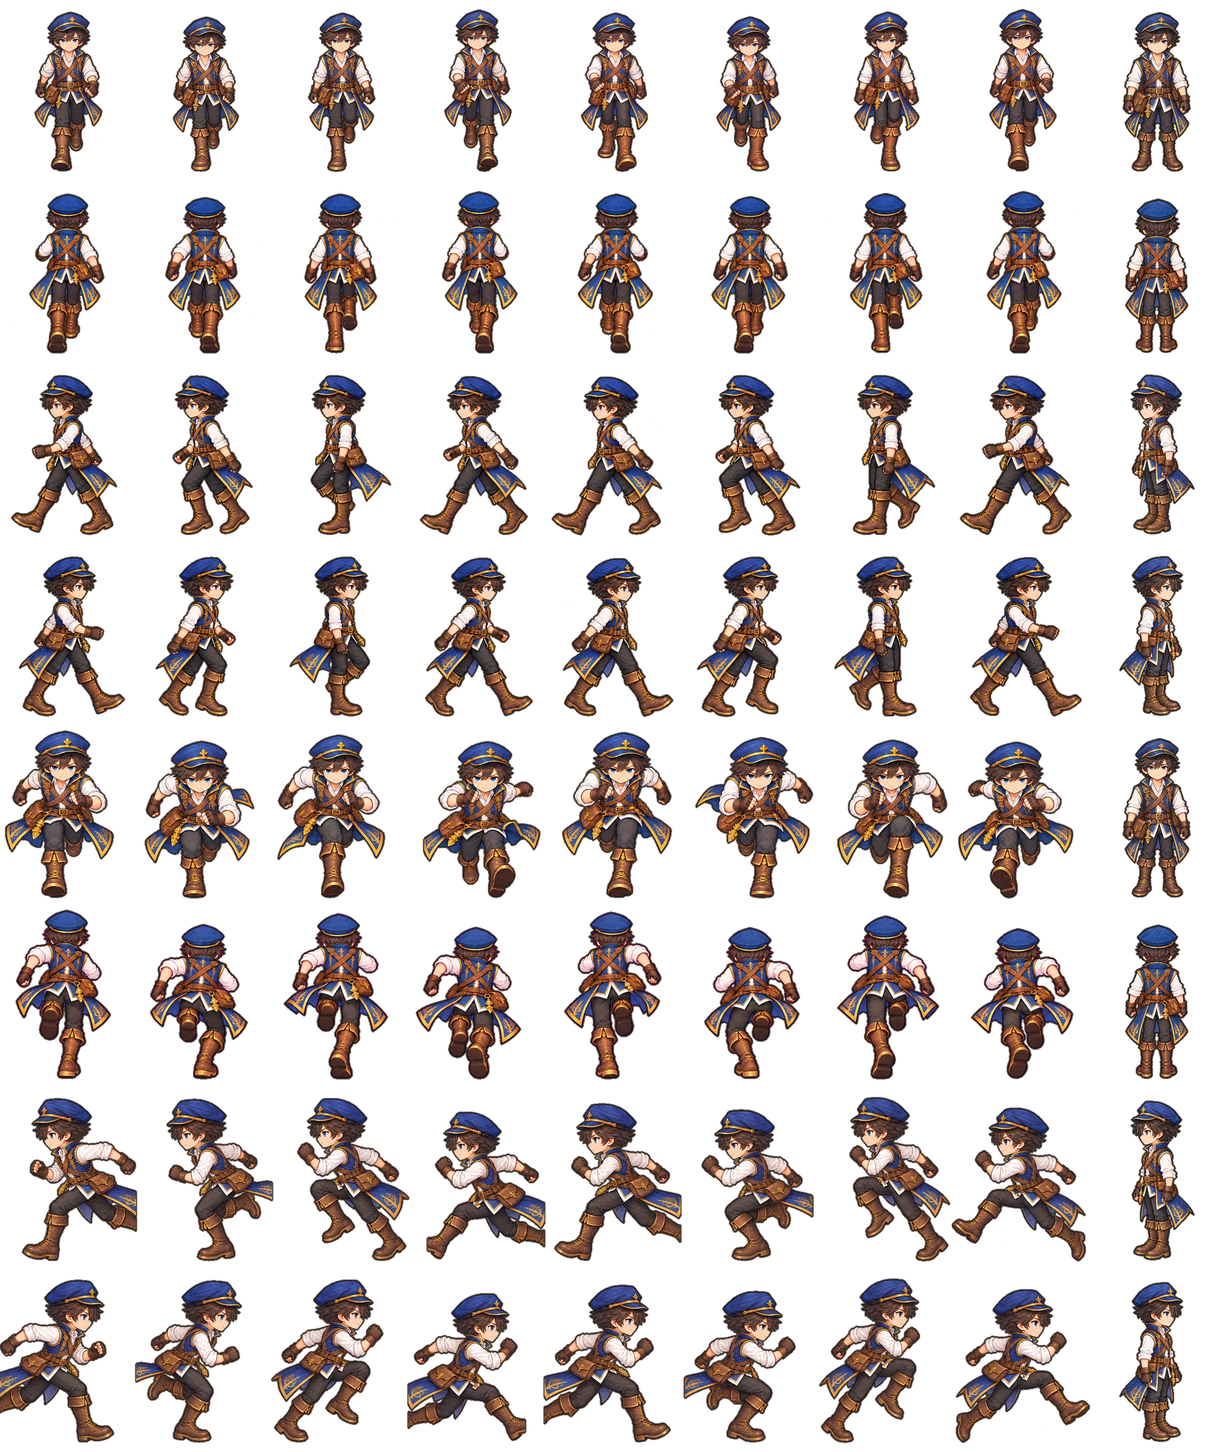
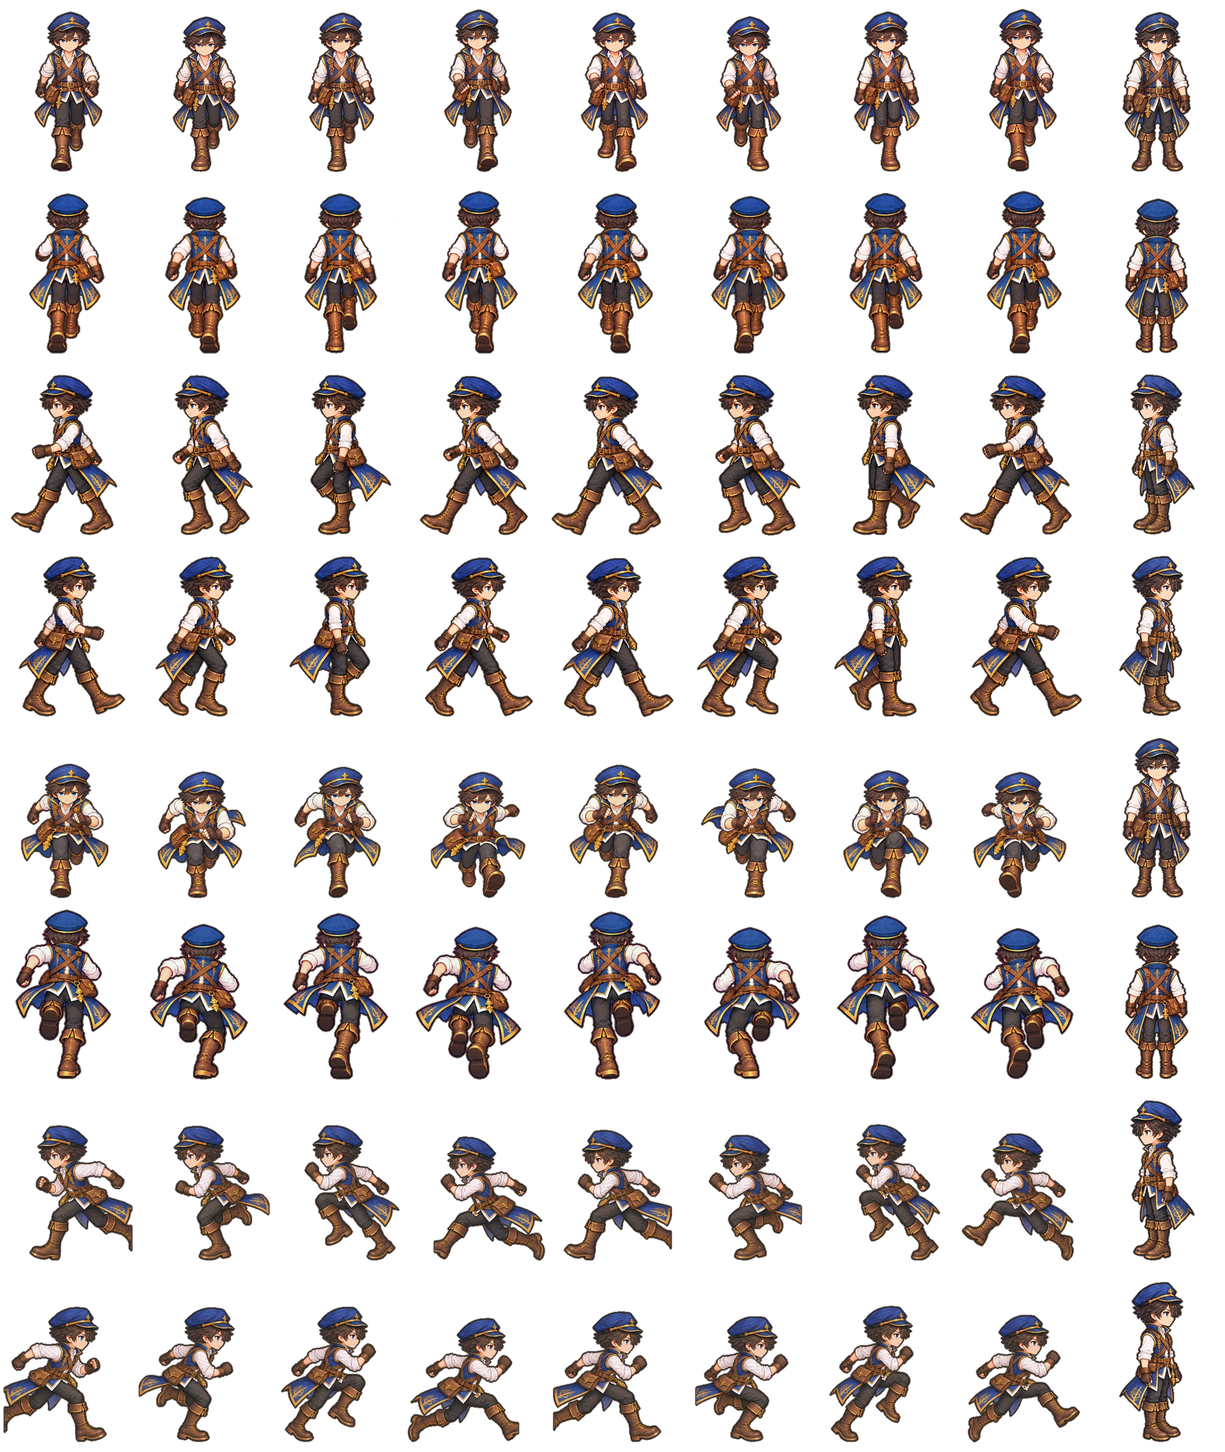
走りのコマの大きさと色味を歩きに合わせる（iPhone 試遊「走りは少し大きくなる・色味が変わる」）
帽子の幅が歩きの「立つ」と同じになるように走りの8コマを縮め（左 0.83・正面 0.80・背中 1.0）、
帽子・肌・ブーツの平均色が歩きと同じになるように色ごとの直線で合わせる（adult_walk_build.py の run8_poses）。

Claude-Session: https://claude.ai/code/session_017pkdgoVCas5KENQnYkuWbn

diff --git a/tools/art/adult_walk_build.py b/tools/art/adult_walk_build.py
@@ -172,10 +172,77 @@ def slot_windows(sheet: Image.Image, cols: int, rows: int) -> list[Image.Image]:
     return wins
 
 
+def cap_width(im: Image.Image) -> int:
+    """帽子（青）の横幅（人物の上から 22% の範囲にある青い画素の左右の端）。前傾しても変わりにくいので、大きさ合わせの目安にする"""
+    arr = np.asarray(im)
+    a = arr[..., 3] > 200
+    ys = np.nonzero(a.any(axis=1))[0]
+    if len(ys) == 0:
+        return 0
+    top, bot = int(ys[0]), int(ys[-1])
+    rgb = arr[..., :3].astype(int)
+    blue = (rgb[..., 2] > 110) & (rgb[..., 0] < 90) & (rgb[..., 1] < 120) & a
+    blue[top + int((bot - top) * 0.22):] = False
+    xs = np.nonzero(blue.any(axis=0))[0]
+    return int(xs[-1] - xs[0] + 1) if len(xs) else 0
+
+
+def region_means(im: Image.Image) -> list[np.ndarray]:
+    """色合わせの目安になる3か所（帽子の青・顔の肌・ブーツの茶）の平均色。無い所は飛ばす"""
+    arr = np.asarray(im)
+    a = arr[..., 3] > 200
+    ys = np.nonzero(a.any(axis=1))[0]
+    top, bot = int(ys[0]), int(ys[-1])
+    h = bot - top
+    rgb = arr[..., :3].astype(int)
+    cap = (rgb[..., 2] > 110) & (rgb[..., 0] < 90) & (rgb[..., 1] < 120) & a
+    cap[top + int(h * 0.22):] = False
+    skin = (rgb[..., 0] > 200) & (rgb[..., 1] > 150) & (rgb[..., 1] < 215) & (rgb[..., 2] > 120) & (rgb[..., 2] < 195) & a
+    skin[top + int(h * 0.45):] = False
+    boot = (rgb[..., 0] > 90) & (rgb[..., 0] < 170) & (rgb[..., 1] > 50) & (rgb[..., 1] < 110) & (rgb[..., 2] < 70) & a
+    boot[: top + int(h * 0.7)] = False
+    return [rgb[m].mean(axis=0) for m in (cap, skin, boot) if m.sum() > 50]
+
+
+def tone_match(wins: list[Image.Image], ref: Image.Image) -> list[Image.Image]:
+    """別の日に描いた絵（走り）の色味を、歩きの「立つ」に合わせる（2026-10-24 ユーザー「走りは若干色味が変わる」）。
+    帽子・肌・ブーツの平均色が歩きと同じになるように、色ごとに「傾きと切片」の直線で直す（傾きは 0.85〜1.15 に抑える）"""
+    ref_means = region_means(ref)
+    run_means = [np.median([m for m in [region_means(w)[i:i + 1] for w in wins] if m], axis=0)[0] for i in range(len(ref_means))] if ref_means else []
+    if len(ref_means) < 2 or len(run_means) < 2:
+        return wins
+    src = np.array(run_means)
+    dst = np.array(ref_means)
+    out = []
+    coef = []
+    for ch in range(3):
+        x, y = src[:, ch], dst[:, ch]
+        slope = float(np.polyfit(x, y, 1)[0]) if len(x) >= 2 else 1.0
+        slope = min(1.15, max(0.85, slope))
+        inter = float((y - slope * x).mean())
+        coef.append((slope, inter))
+    for w in wins:
+        arr = np.asarray(w).astype(float)
+        for ch, (slope, inter) in enumerate(coef):
+            arr[..., ch] = np.clip(arr[..., ch] * slope + inter, 0, 255)
+        out.append(Image.fromarray(arr.astype(np.uint8), 'RGBA'))
+    print(f'  色合わせ: {[(round(a, 3), round(b, 1)) for a, b in coef]}')
+    return out
+
+
 def run8_poses(path: Path, walk_sheet: Image.Image) -> list[Image.Image]:
     """走りの絵（1枚に8ポーズ：2段×4列。docs/design/walk-run-v3-20261024/）の8コマ。
-    8人の背の高さの真ん中の値を FIGURE_H にそろえ（前傾・体の上下は絵のとおり残す）、足元を FOOT_Y、上半身を歩きの「立つ」に合わせる"""
-    return place_poses(slot_windows(Image.open(path).convert('RGBA'), 4, 2), walk_sheet)
+    8人の背の高さの真ん中の値を FIGURE_H にそろえたうえで、帽子の幅が歩きの「立つ」と同じになるように縮める
+    （前傾した走りは背が低く測れるので、背の高さだけで合わせると人物が大きくなる。2026-10-24 ユーザー「走りは少し大きくなる」）。
+    色味も歩きに合わせる。足元を FOOT_Y、上半身を歩きの「立つ」に合わせる"""
+    stand = split_poses(walk_sheet)[0]
+    wins = tone_match(slot_windows(Image.open(path).convert('RGBA'), 4, 2), stand)
+    frames = place_poses(wins, walk_sheet)
+    ref_cap = cap_width(place(stand, body_center(alpha(stand)), FIGURE_H / figure_height(walk_sheet)))
+    run_cap = float(np.median([cap_width(f) for f in frames]))
+    ratio = min(1.0, max(0.8, ref_cap / run_cap)) if ref_cap and run_cap else 1.0
+    print(f'  帽子の幅: 歩き {ref_cap} / 走り {run_cap:.0f} → 走りを {ratio:.3f} 倍')
+    return place_poses(wins, walk_sheet, ratio)
 
 
 def v2_poses(path: Path, walk_sheet: Image.Image) -> list[Image.Image]:
@@ -198,13 +265,13 @@ def v2_poses(path: Path, walk_sheet: Image.Image) -> list[Image.Image]:
     return place_poses(wins, walk_sheet)
 
 
-def place_poses(wins: list[Image.Image], walk_sheet: Image.Image) -> list[Image.Image]:
-    """同じ絵から切ったポーズをコマに置く（倍率は全部同じ：背の高さの真ん中の値を FIGURE_H に）"""
+def place_poses(wins: list[Image.Image], walk_sheet: Image.Image, extra: float = 1.0) -> list[Image.Image]:
+    """同じ絵から切ったポーズをコマに置く（倍率は全部同じ：背の高さの真ん中の値を FIGURE_H に。extra はさらにかける倍率）"""
     heights = []
     for w in wins:
         ys = np.nonzero(alpha(w).any(axis=1))[0]
         heights.append(int(ys[-1] - ys[0]))
-    k = FIGURE_H / float(np.median(heights))
+    k = FIGURE_H / float(np.median(heights)) * extra
     # 上半身の位置は、歩きの絵の「立つ」を同じ大きさにした形と比べる
     stand = split_poses(walk_sheet)[0]
     sa = alpha(stand)

diff --git a/docs/handoff.md b/docs/handoff.md
@@ -39,7 +39,7 @@
 | 対戦画面の改訂R2（2026-10-24・公開済み `e1b48d9`・**iPhone 確認待ち**） | ユーザーの ZIP「Seimon_Claude_BattleLayout_R2_20261024」のフェーズ2だけ実装：相手の手札を自分と同じ大きさの裏向きで上に（実枚数・中身は出さない・引く/使う/マナ化で動く）、モンスターを 72→58（72/58/54 を比較）→ユーザー指示で左右の欄を細く・アイコンなしにして 66、手札（自分・相手とも）62→66、相手の列は 左＝状態・右＝マナ/山札/手札/捨札、真ん中の帯に最新の経過1行（押すと全部）、操作のボタンは自分のモンスターの右（ユーザー指示「下すぎて操作感に問題」で、いちばん下から移した。自分の列は 左＝マナなど・右＝ボタン）。ルール・カード・セーブ・画像は変更なし。記録と受入テストの結果は `docs/battle-layout-r2.md`、比較画像は `docs/design/battle-layout-r2-20261024/`。**フェーズ1（街・ダンジョン・NPC）は未着手**（動画4本・前の ZIP が届いていない） |
 | 歩く人物の見え方（2026-10-24・公開済み `8641fd1`） | ユーザーの試遊「プカプカ浮いて見える」「指でなぞるとクルクル回って、切り抜いて貼った絵のようでチープ」から：立っている人の呼吸の動きをやめた（`world.css`）、歩くときの体の上下（弾み）を 0 に、足元の影を広く濃く・少し下へ（接地の影）。向き：壁ぞいにすべるときも押している向きの絵のまま（斜めと正面の絵が1歩ごとに入れ替わっていた）、進めない向きへは 0.22 秒押し続けたときだけその場で向く（`worldScreen.ts` の `TURN_IN_PLACE_MS`） |
 | 世界地図 | **2026-10-23 作って公開（`9b6494b`）**（ユーザー案）：街の南の出口・家の壁の地図で開く画面を、ミスモンの世界地図（ユーザーが送った文字のない版。`assets/images/ui/worldmap/world_map.webp`）に。地方の名前6つ（ミスモン本編と同じ：フェルナ・ノルディス・アステリア・オルティガ・セイラン・ネブラシア。英語は仮訳）を絵の上に重ね、舞台の**フェルナ地方**は金色。街（現在地）とダンジョンを丸い印で置き、押すと下に説明。**南の出口からは出発できる・家の壁の地図は見るだけ**（それまでは家からも出発できた）。ダンジョンは各地方に置く方針（例：雪のダンジョン＝ノルディス地方）。印の位置・名前は**仮**（`src/data/worldMap.ts`）。画面は `dungeonSelectScreen.ts` |
-| 次の作業 | **男性・左向きの歩き8コマ（第3版）が届き、作業ブランチに組み込み済み（記録 `docs/design/walk-run-v3-20261024/10_RESULTS_UTF8.txt`）。ゲームの1歩を絵に合わせて `STEP_PER_HEIGHT` 0.58→0.38（足滑りなし・25コマ/秒の速足）。ユーザー「歩く速さを下げて」で `WALK_PX` 231→185（約5歩/秒・20コマ/秒。走りは 1.7 倍の 315px/秒）。**左向きの走り8コマも届いて組み込み済み**：シートを12行に（歩き8行＋走り4行。走りの絵が無い向きは歩きの写し。女性も同じ形）、走るときは行＋8（`walkAnim.ts` の `sheetRow`）、走りの1歩 0.6→0.7、走りの絵の行ではプログラムの前傾なし。**背中の歩き・背中の走り・正面の走りも届いて組み込み済み → 男性は4方向とも歩き8コマ＋走り8コマがそろった（左向きの走りは2枚目 B を採用。A は `_v3a` で保管）。公開済み。** ユーザー「斜め歩行は無しにして四方向に」で、絵は4方向（斜めに進むときは横の絵。進み方は8方向のまま）、シートは 8行（歩き4＋走り4・2430×2880）、`adult_walk_build.py` は `--diag` なし。残りは女性（`walk-run-v3-20261024/female/`：歩き 左・背中・正面、走り 左・背中・正面。文は男性のものを流用）。** その前の経緯：ユーザーが「何回直しても自然にならない」→ 第3版の依頼一式 `docs/design/walk-run-v3-20261024/`（ZIP `Seimon_WalkRun_v3_Prompts.zip` を渡し済み）。決めごと：歩きは大股の速足（身長の 0.6）で描きゲームの1歩を絵に合わせる・走りは別の8コマ・4方向（斜めは横で代用）・男性の左向き歩きから1枚ずつ。走りの動きの見本は `tools/art/walk_guide_draw.py`（RUN_PH）。届いたら確認画面で歩幅を測って組み込む**。第1段階の報告の → 素材が届いたら `walk-run-phase1-20261024/20_` の手順で組み込み、確認画面で歩幅を計測**。それ以外は、**新しいセッションでは、ユーザーの次の指示を待つ**（2026-10-24 ユーザー「まだ試遊はしていません」）。**ユーザーの試遊・iPhone 確認待ち**：対戦画面の改訂R2（公開済み `e1b48d9`。直しの指示が来たら `battleScreen.ts`・`battleTable.css`）。**第7弾の描き直し6枚（両端の飾りなし）を組み込んだ（2026-10-24・公開済み `35b2c69`。記録 `docs/design/ui-quality7fix-20261023/10_受け取り結果_UTF8.txt`）**。**歩き方の改善（2026-10-24・公開済み `35b2c69`）**：ユーザー「動きがチープ」を受け、ゲーム側だけで、足元を中心に体をわずかに縮める／伸ばす・進む向きへ少し前傾き・足元の影の動き・足の動きを落ち着かせる（`STEP_PER_HEIGHT` 0.45→0.58）（`worldScreen.ts` の `#bodyPose`）。比べた動画はチャットで送付。**歩きの絵の次の作業**：男性の正面は8コマで公開済み。次は男性の左向き・背中を「受け取って貼るだけ」の形（`motion-v2-20261024/easy/`：参考の絵1枚＋枠＋動きの見本＋貼る文。AI は右足・左足を取り違えやすいので動きの見本の図を必ず添付）で頼む。**絵の依頼（最新）**：主人公の「歩く・走る」第2版 `docs/design/motion-v2-20261024/`（2026-10-24。1歩4ポーズ＝1周8コマ・1枚に4ポーズ・1人20枚。ZIP `Seimon_Motion_v2.zip` をユーザーに渡し済み。まず男性・正面の歩き2枚。部品で動かす試作〔`tools/art/rig_*_prototype.py`〕はユーザー「ロボットみたい」で不採用）。その前の依頼：主人公の「歩く・走る」全方向 `docs/design/motion-20261024/`（2026-10-24。歩き4ポーズ＋走り4ポーズ×5方向・1枚に1ポーズ・1人34枚。ZIP `Seimon_Motion_Walk_Run.zip` をユーザーに渡し済み。前の `walk-passing-20261024` を含む。まず男性・正面の W2 を1枚）。**男性・正面の W2・W4 が届いて作業ブランチに組み込み済み・未公開**（`docs/design/motion-20261024/10_RESULTS.txt`。比べた動画はチャットで送付）。届いたら `tools/art/adult_walk_build.py` で「右足を前・右足で立ち左足を運ぶ・左足を前・左足で立ち右足を運ぶ」の4コマにする。黒い余白の補正は画面の下が切れたので取り消し済み（公開済み）。絵の依頼の ZIP は作り直し版（`Seimon_WalkPassing.zip`・英数字の名前・5.5MB）をユーザーが受け取り済み。上の帯の設定（`black-translucent`）の変更はユーザーの判断待ち。**改訂R2のフェーズ1（街・ダンジョン・NPC）は公開済み `44b33e2`・iPhone 確認待ち**（2026-10-24。特に、ホーム画面から開いたとき下の黒い帯が消えたか。黒い余白の補正・ダンジョン 1.5 倍／街 1.15 倍とカメラの遊び・先読み・人のまわり〔重ならない・「話す」・こちらを向く〕・スティックの輪の位置）。記録と確認の結果は `docs/battle-layout-r2.md` 6・7章。**ユーザーの iPhone 確認待ち**：歩く人物（浮かない・回らない・影）、対戦画面（相手の手札は裏向き・情報の箱は端・コマンドは自分の情報の下・相手のひと言）、攻撃終了の修正、ラズック、効果音、世界地図、デザイン第6・7弾、新しいアイコン。**届く予定**：第7弾の描き直し6枚（両端の飾りなし。依頼一式 `docs/design/ui-quality7fix-20261023/`）。**ユーザーが決めること**：ラズックの初期・収集の配分（8/8 か 10/6）、ちょうはつ・ダストキックの細かい裁定、相手のひと言の正式な台詞、ダンジョンの対戦の背景、大会の対戦相手の名前・人物像、先生の台詞（仮）、世界地図の印の位置・名前（仮）。ソラモ・ラズックの未定事項は上の「正式カード」の行。未着の依頼：歩きの「半歩」の絵、走る絵 |
+| 次の作業 | **男性・左向きの歩き8コマ（第3版）が届き、作業ブランチに組み込み済み（記録 `docs/design/walk-run-v3-20261024/10_RESULTS_UTF8.txt`）。ゲームの1歩を絵に合わせて `STEP_PER_HEIGHT` 0.58→0.38（足滑りなし・25コマ/秒の速足）。ユーザー「歩く速さを下げて」で `WALK_PX` 231→185（約5歩/秒・20コマ/秒。走りは 1.7 倍の 315px/秒）。**左向きの走り8コマも届いて組み込み済み**：シートを12行に（歩き8行＋走り4行。走りの絵が無い向きは歩きの写し。女性も同じ形）、走るときは行＋8（`walkAnim.ts` の `sheetRow`）、走りの1歩 0.6→0.7、走りの絵の行ではプログラムの前傾なし。**背中の歩き・背中の走り・正面の走りも届いて組み込み済み → 男性は4方向とも歩き8コマ＋走り8コマがそろった（左向きの走りは2枚目 B を採用。A は `_v3a` で保管）。公開済み。ユーザーの iPhone 試遊「走りは少し大きくなる・色味が変わる」→ 道具で走りのコマを帽子の幅で歩きに合わせて縮め、色も歩きに合わせた（`run8_poses`）。** ユーザー「斜め歩行は無しにして四方向に」で、絵は4方向（斜めに進むときは横の絵。進み方は8方向のまま）、シートは 8行（歩き4＋走り4・2430×2880）、`adult_walk_build.py` は `--diag` なし。残りは女性（`walk-run-v3-20261024/female/`：歩き 左・背中・正面、走り 左・背中・正面。文は男性のものを流用）。** その前の経緯：ユーザーが「何回直しても自然にならない」→ 第3版の依頼一式 `docs/design/walk-run-v3-20261024/`（ZIP `Seimon_WalkRun_v3_Prompts.zip` を渡し済み）。決めごと：歩きは大股の速足（身長の 0.6）で描きゲームの1歩を絵に合わせる・走りは別の8コマ・4方向（斜めは横で代用）・男性の左向き歩きから1枚ずつ。走りの動きの見本は `tools/art/walk_guide_draw.py`（RUN_PH）。届いたら確認画面で歩幅を測って組み込む**。第1段階の報告の → 素材が届いたら `walk-run-phase1-20261024/20_` の手順で組み込み、確認画面で歩幅を計測**。それ以外は、**新しいセッションでは、ユーザーの次の指示を待つ**（2026-10-24 ユーザー「まだ試遊はしていません」）。**ユーザーの試遊・iPhone 確認待ち**：対戦画面の改訂R2（公開済み `e1b48d9`。直しの指示が来たら `battleScreen.ts`・`battleTable.css`）。**第7弾の描き直し6枚（両端の飾りなし）を組み込んだ（2026-10-24・公開済み `35b2c69`。記録 `docs/design/ui-quality7fix-20261023/10_受け取り結果_UTF8.txt`）**。**歩き方の改善（2026-10-24・公開済み `35b2c69`）**：ユーザー「動きがチープ」を受け、ゲーム側だけで、足元を中心に体をわずかに縮める／伸ばす・進む向きへ少し前傾き・足元の影の動き・足の動きを落ち着かせる（`STEP_PER_HEIGHT` 0.45→0.58）（`worldScreen.ts` の `#bodyPose`）。比べた動画はチャットで送付。**歩きの絵の次の作業**：男性の正面は8コマで公開済み。次は男性の左向き・背中を「受け取って貼るだけ」の形（`motion-v2-20261024/easy/`：参考の絵1枚＋枠＋動きの見本＋貼る文。AI は右足・左足を取り違えやすいので動きの見本の図を必ず添付）で頼む。**絵の依頼（最新）**：主人公の「歩く・走る」第2版 `docs/design/motion-v2-20261024/`（2026-10-24。1歩4ポーズ＝1周8コマ・1枚に4ポーズ・1人20枚。ZIP `Seimon_Motion_v2.zip` をユーザーに渡し済み。まず男性・正面の歩き2枚。部品で動かす試作〔`tools/art/rig_*_prototype.py`〕はユーザー「ロボットみたい」で不採用）。その前の依頼：主人公の「歩く・走る」全方向 `docs/design/motion-20261024/`（2026-10-24。歩き4ポーズ＋走り4ポーズ×5方向・1枚に1ポーズ・1人34枚。ZIP `Seimon_Motion_Walk_Run.zip` をユーザーに渡し済み。前の `walk-passing-20261024` を含む。まず男性・正面の W2 を1枚）。**男性・正面の W2・W4 が届いて作業ブランチに組み込み済み・未公開**（`docs/design/motion-20261024/10_RESULTS.txt`。比べた動画はチャットで送付）。届いたら `tools/art/adult_walk_build.py` で「右足を前・右足で立ち左足を運ぶ・左足を前・左足で立ち右足を運ぶ」の4コマにする。黒い余白の補正は画面の下が切れたので取り消し済み（公開済み）。絵の依頼の ZIP は作り直し版（`Seimon_WalkPassing.zip`・英数字の名前・5.5MB）をユーザーが受け取り済み。上の帯の設定（`black-translucent`）の変更はユーザーの判断待ち。**改訂R2のフェーズ1（街・ダンジョン・NPC）は公開済み `44b33e2`・iPhone 確認待ち**（2026-10-24。特に、ホーム画面から開いたとき下の黒い帯が消えたか。黒い余白の補正・ダンジョン 1.5 倍／街 1.15 倍とカメラの遊び・先読み・人のまわり〔重ならない・「話す」・こちらを向く〕・スティックの輪の位置）。記録と確認の結果は `docs/battle-layout-r2.md` 6・7章。**ユーザーの iPhone 確認待ち**：歩く人物（浮かない・回らない・影）、対戦画面（相手の手札は裏向き・情報の箱は端・コマンドは自分の情報の下・相手のひと言）、攻撃終了の修正、ラズック、効果音、世界地図、デザイン第6・7弾、新しいアイコン。**届く予定**：第7弾の描き直し6枚（両端の飾りなし。依頼一式 `docs/design/ui-quality7fix-20261023/`）。**ユーザーが決めること**：ラズックの初期・収集の配分（8/8 か 10/6）、ちょうはつ・ダストキックの細かい裁定、相手のひと言の正式な台詞、ダンジョンの対戦の背景、大会の対戦相手の名前・人物像、先生の台詞（仮）、世界地図の印の位置・名前（仮）。ソラモ・ラズックの未定事項は上の「正式カード」の行。未着の依頼：歩きの「半歩」の絵、走る絵 |
 
 ## 2. これまでの作業（時系列・要点だけ）
 
